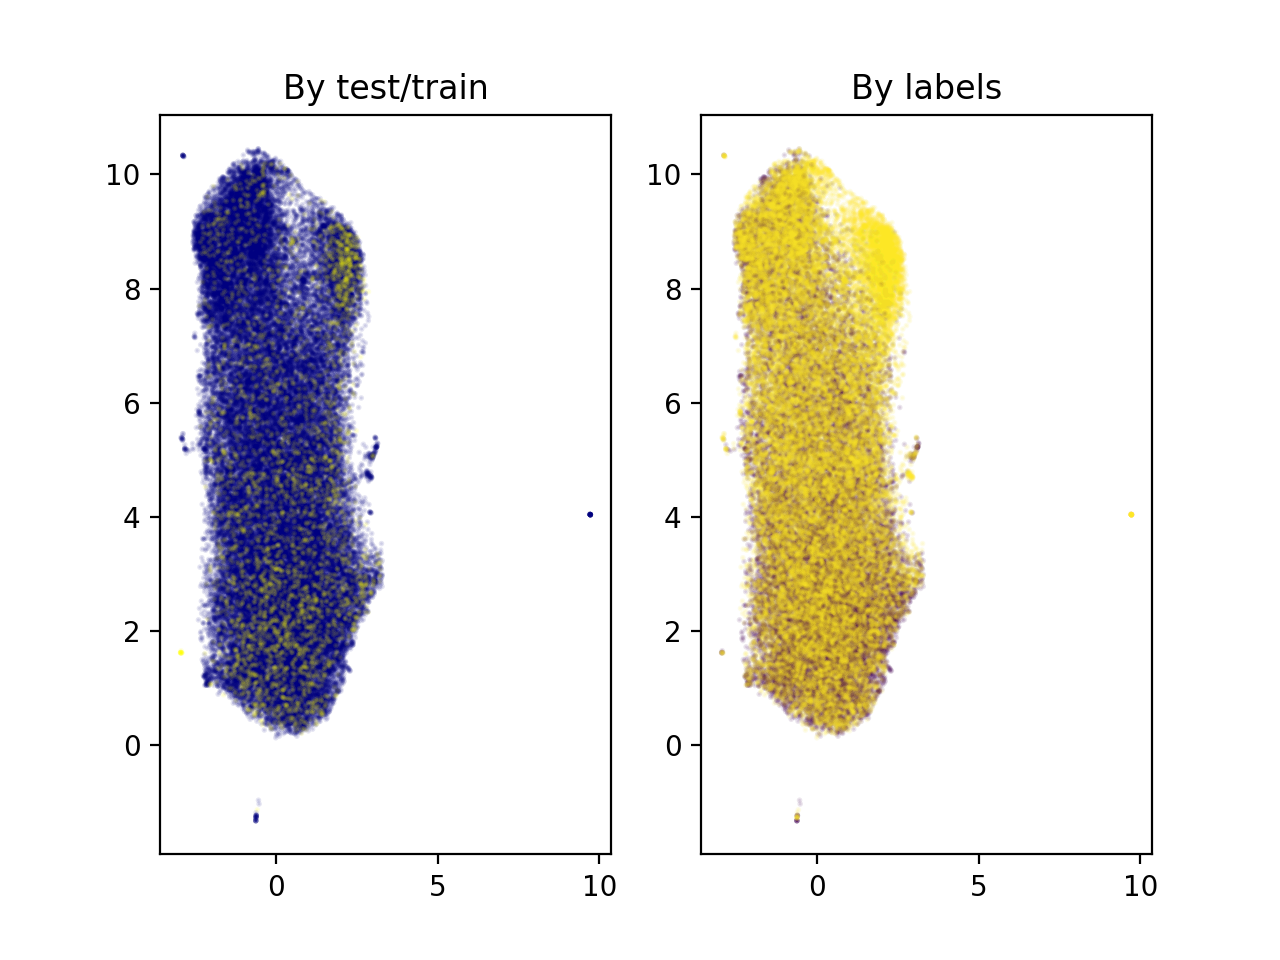
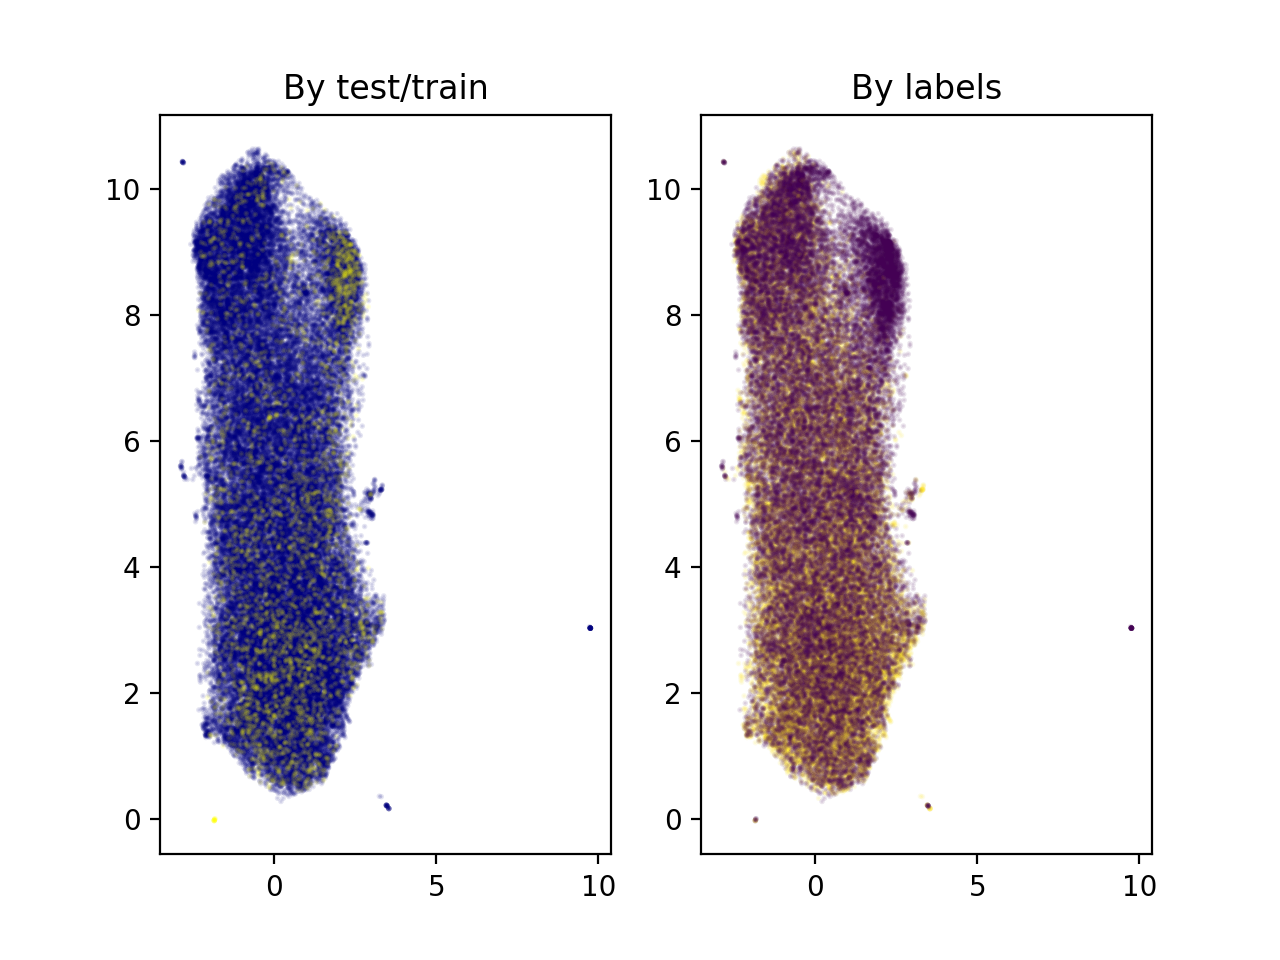
switched labels for frequency feature plots

diff --git a/workflow/scripts/feature_extraction/umap_frequencies.py b/workflow/scripts/feature_extraction/umap_frequencies.py
@@ -7,8 +7,8 @@ if __name__ == "__main__":
 
     train_data = pd.read_table(snakemake.input['train'].__str__(), header=None, index_col=0)
     test_data = pd.read_table(snakemake.input['test'].__str__(), header=None, index_col=0)
-    train_labels = [int(l.strip()[0]) for l in open(snakemake.input['train_labels'].__str__(), 'r')]
-    test_labels = [int(l.strip()[0]) for l in open(snakemake.input['test_labels'].__str__(), 'r')]
+    train_labels = [int(l.strip()[1]) for l in open(snakemake.input['train_labels'].__str__(), 'r')]
+    test_labels = [int(l.strip()[1]) for l in open(snakemake.input['test_labels'].__str__(), 'r')]
     
     train_data['data'] = 'train'
     test_data['data'] = 'test'
